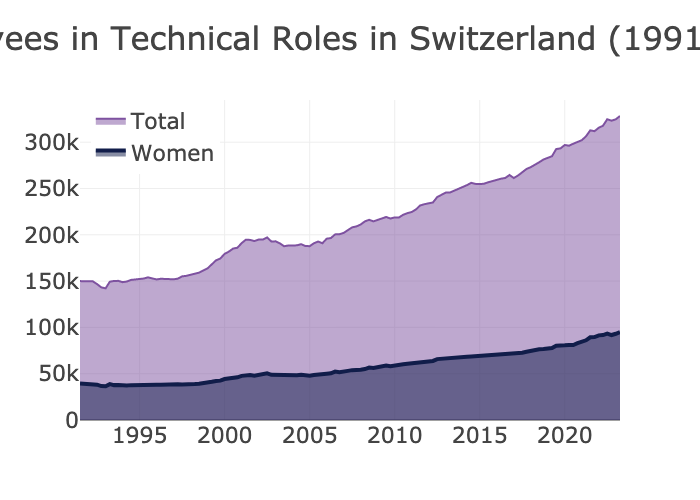
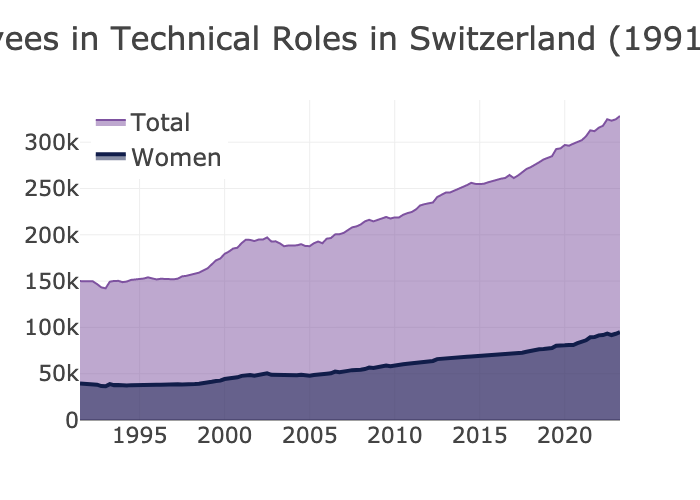
Increase legend font size

Changed region(s): [[0.12, 0.21, 0.33, 0.33]]

diff --git a/data_generation/profession_stats.py b/data_generation/profession_stats.py
@@ -89,7 +89,7 @@ if __name__ == "__main__":
     fig.update_layout(
         title_text='Employees in Technical Roles in Switzerland (1991-2023)',
         title_font=dict(size=32), # Change the font size of the title
-        legend=dict(x=0.02, y=1, font=dict(size=22)) # Move the legend to the top left corner and change its size
+        legend=dict(x=0.02, y=1, font=dict(size=24)) # Move the legend to the top left corner and change its size
     )
     fig.update_xaxes(tickfont=dict(size=22)) # Change the font size of the x axis labels
     fig.update_yaxes(tickfont=dict(size=22)) # Change the font size of the y axis labels
